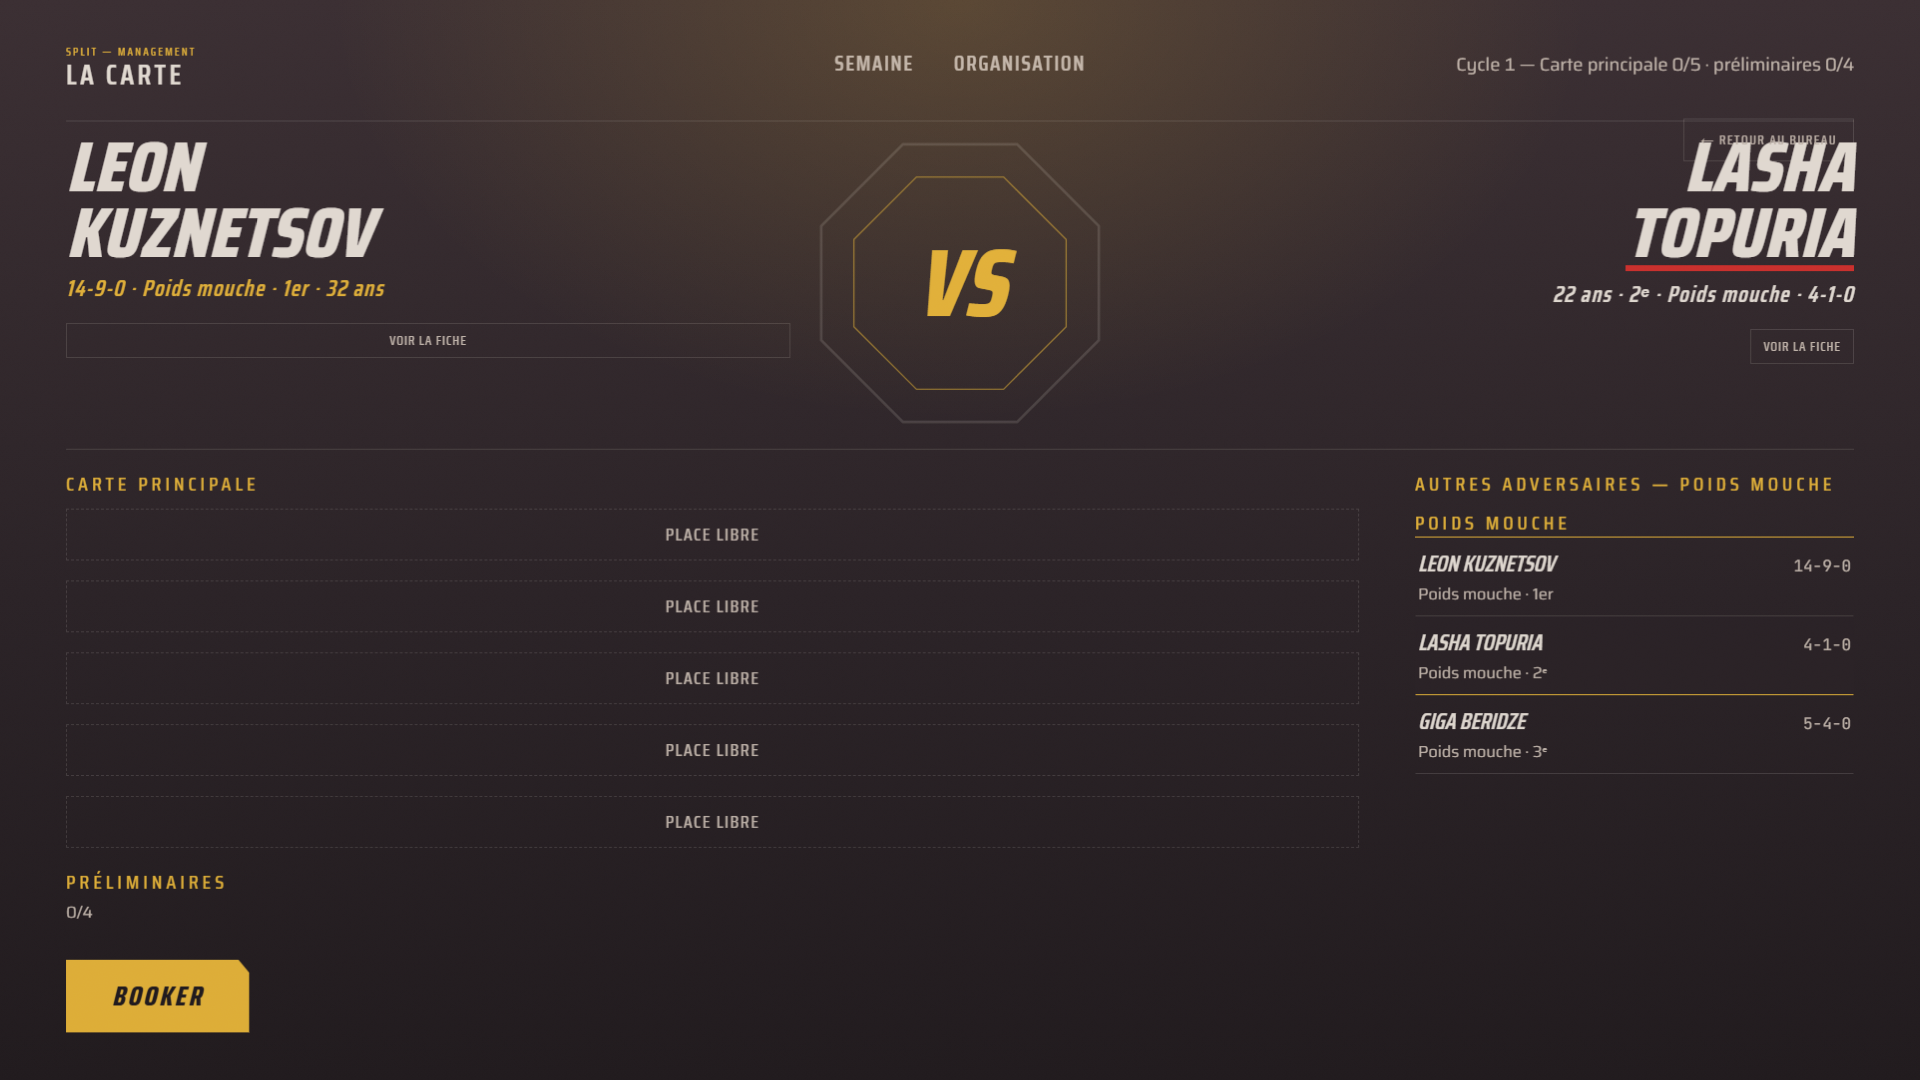
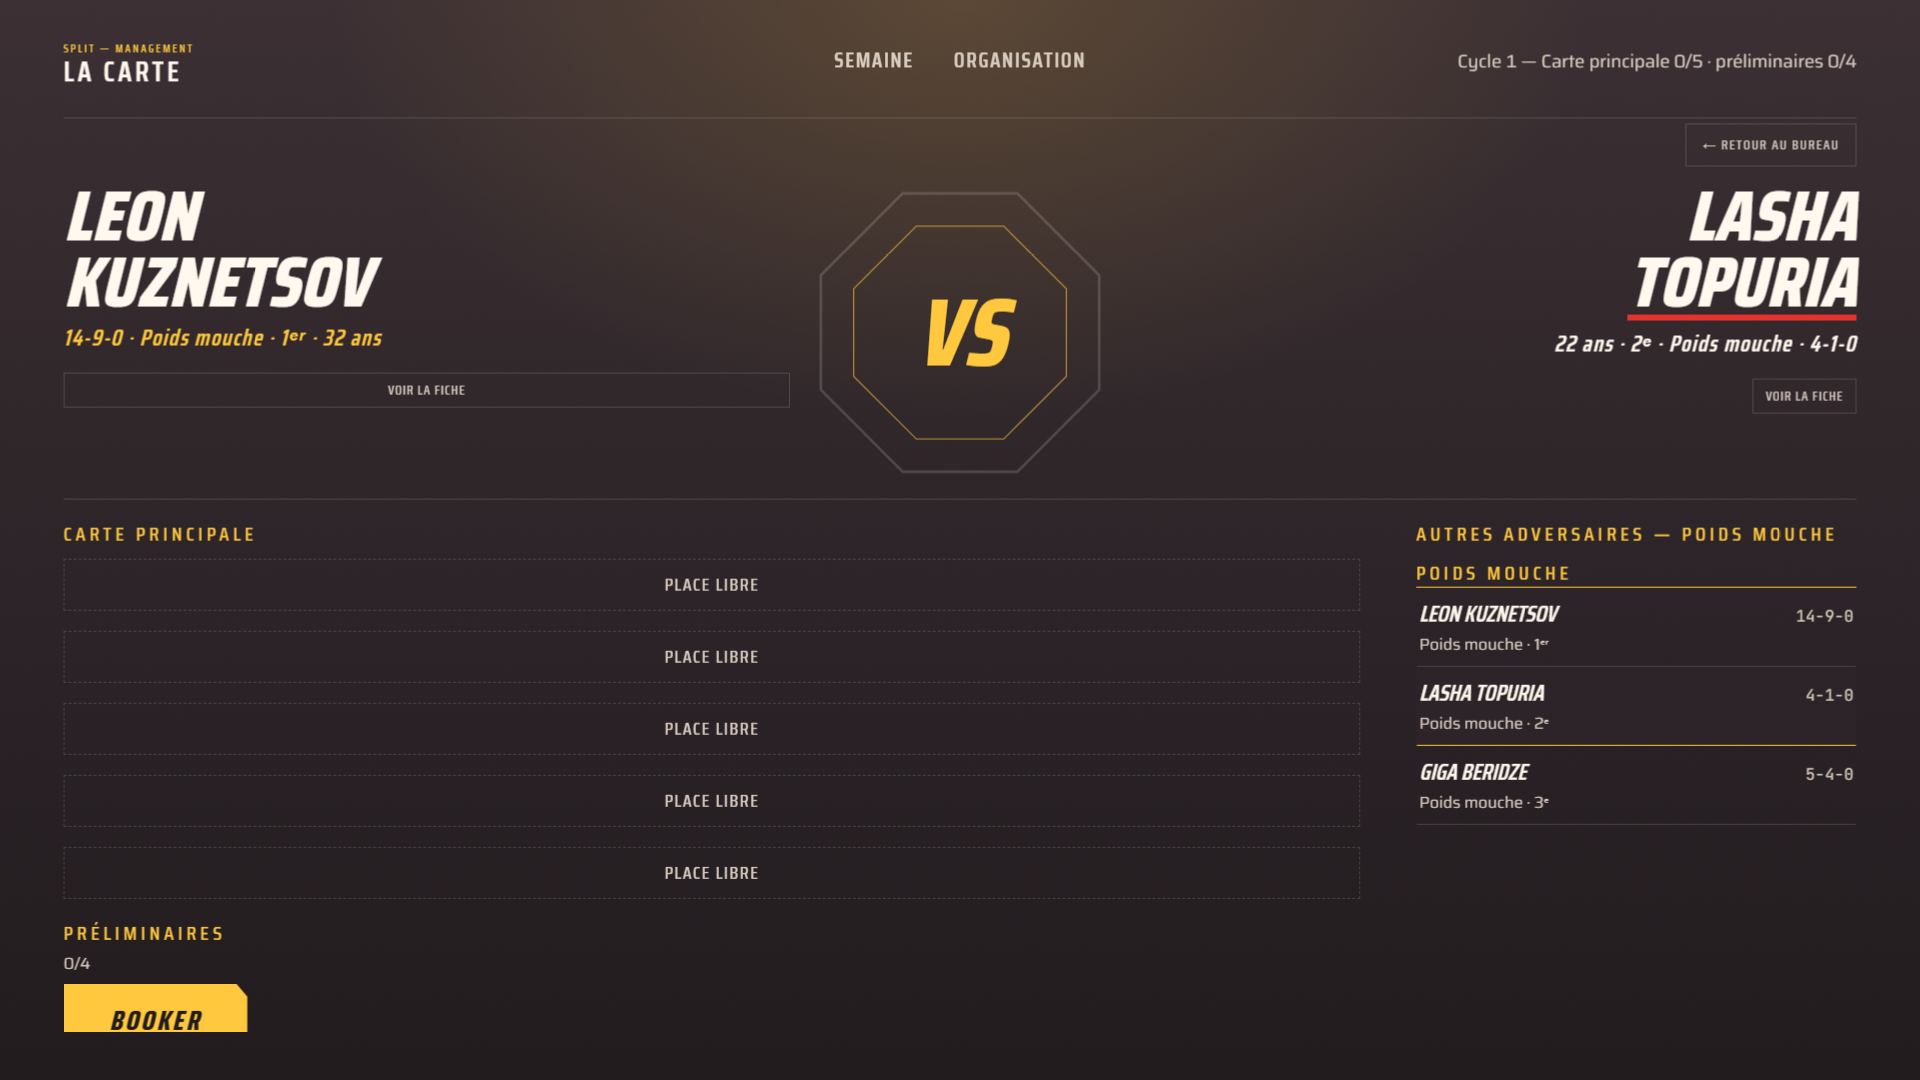
Lot 4 F2 : corriger le retour, la semaine et les rangs

diff --git a/mgmt-ecran-semaine.js b/mgmt-ecran-semaine.js
@@ -40,7 +40,7 @@ function mgmtSemaineCarte(m){
   }
   return `<section class="mgmt-week-card"><h3>Carte principale</h3>`
     +`<p>${esc(booked)} combat${booked===1?'':'s'} booké${booked===1?'':'s'} sur ${esc(size)} · ${esc(size-booked)} place${size-booked===1?'':'s'} libre${size-booked===1?'':'s'}</p>`
-    +slots+`<button class="mgmt-week-book" onclick="CL.mgmtCarte()">${booked<size?'Booker un combat':'Voir la carte principale'}</button></section>`;
+    +slots+`</section>`;
 }
 
 /* Les seules nouvelles du monde sont celles qui peuvent orienter un choix :
@@ -115,8 +115,9 @@ function mgmtSemaineMonde(m){
     +(n.id?`<button onclick="CL.mgmtFiche('${esc(n.id)}')">Voir la fiche</button>`:'')+`</article>`).join('');
 }
 
-/* Quatre rangs du classement mondial, autour d'un combat posé quand il y
-   en a un. Sinon la catégorie la plus représentée chez Split. */
+/* Quatre rangs du classement mondial autour des combattants de Split.
+   Quand un combat est posé, ses deux hommes passent en priorité ; sinon le
+   groupe Split le plus dense dans la catégorie choisie guide la fenêtre. */
 function mgmtSemaineClassement(m){
   const first=m.card.main[0], fighter=first&&mgmtFighterById(m,first.a);
   const counts=new Map();
@@ -124,15 +125,24 @@ function mgmtSemaineClassement(m){
   const div=fighter?fighter.div:[...counts].sort((a,b)=>b[1]-a[1])[0]?.[0];
   if(!div) return '';
   const ranks=mgmtDivisionRanking(m,div,'world');
-  const center=fighter?ranks.findIndex(r=>r.id===fighter.id):-1;
-  const start=center<0?0:Math.max(0,Math.min(center-1,ranks.length-4));
+  const ownIds=new Set(m.roster.filter(f=>f.div===div&&!mgmtIsRetired(f)).map(f=>f.id));
+  const bookedIds=new Set(first?[first.a,first.b]:[]);
+  let start=0, best=-1;
+  for(let s=0;s<=Math.max(0,ranks.length-4);s++){
+    const window=ranks.slice(s,s+4);
+    const booked=window.filter(r=>bookedIds.has(r.id)).length;
+    const own=window.filter(r=>ownIds.has(r.id)).length;
+    const lead=first&&window.some(r=>r.id===first.a)?1:0;
+    const score=booked*100+lead*10+own;
+    if(score>best){ best=score;start=s; }
+  }
   const rows=ranks.slice(start,start+4).map((r,i)=>{
     const own=m.roster.find(f=>f.id===r.id);
     const ext=!own&&m.exterieur.find(f=>f.id===r.id);
     const trace=ext&&mgmtExteriorTrace(ext,m.cycle);
     const name=own?own.name:trace?trace.name:r.name;
     const org=own?'Split':trace&&trace.orgs.length?trace.orgs[trace.orgs.length-1].name:'';
-    return `<div class="mgmt-week-rank"><span>${esc(start+i+1)} &nbsp;${esc(name||'')}</span><span>${esc(org)}</span></div>`;
+    return `<div class="mgmt-week-rank${own?' split':''}"><span>${esc(start+i+1)} &nbsp;${esc(name||'')}</span><span>${esc(org)}</span></div>`;
   }).join('');
   return `<section class="mgmt-week-ranking"><h3>${esc(mgmtDivisionLabel(div))}</h3>${rows}`
     +(SCREENS.mgmt_classements?`<button class="mgmt-week-link" onclick="CL.go('mgmt_classements')">Tous les classements</button>`:'')
@@ -239,7 +249,7 @@ function scr_mgmt_bureau(){
     +` — ${esc(mgmtCardLabel(m))}</div>`
     +`<div class="mgmt-cols mgmt-week-cols">`
     +`<section class="mgmt-week-pane mgmt-week-left">${mgmtSemaineCarte(m)}`
-    +`<div class="mgmt-week-talk"><h3>${selOpen&&selOpen.speaker==='leila'?'Leïla':'Échange'}</h3>${talkHtml}</div>`
+    +`<div class="mgmt-week-talk">${selOpen&&selOpen.speaker==='leila'?'':'<h3>Échange</h3>'}${talkHtml}</div>`
     +`<div class="mgmt-week-affairs"><h3>Affaires · ${open.length}</h3>${pileHtml}</div>`
     +(fileHtml?`<details class="mgmt-week-dossier"><summary>Dossier</summary>${fileHtml}</details>`:'')+`</section>`
     +`<section class="mgmt-week-pane"><h3>Le monde autour de Split</h3>${mgmtSemaineMonde(m)}`

diff --git a/tools/capture-f2-reprise.js b/tools/capture-f2-reprise.js
@@ -1,0 +1,73 @@
+"use strict";
+/* Reprise F2 : même partie neuve pour les captures avant/après ; le booking
+   choisit les deux noms les plus longs compatibles, sans changer le jeu. */
+const {chromium}=require('playwright');
+const path=require('node:path');
+const {pathToFileURL}=require('node:url');
+
+const root=path.resolve(__dirname,'..');
+const url=file=>pathToFileURL(path.join(root,file)).href;
+const phase=process.argv[2];
+if(phase!=='avant'&&phase!=='apres') throw Error('Usage : node tools/capture-f2-reprise.js avant|apres');
+
+async function main(){
+  const browser=await chromium.launch({headless:true});
+  try{
+    const context=await browser.newContext({viewport:{width:1920,height:1080},deviceScaleFactor:1});
+    const page=await context.newPage();
+    const errors=[];
+    page.on('pageerror',e=>errors.push(e.message));
+    await page.goto(url('index.html'),{waitUntil:'load'});
+    await page.evaluate(()=>{setSeed(11);CL.mgmtEnter();});
+    await page.evaluate(()=>document.fonts.ready);
+    const output=(screen)=>path.join(root,'tools','reports','lot-4-fidelite',`f2-reprise-${screen}-${phase}.png`);
+    await page.screenshot({path:output('semaine')});
+    const pair=await page.evaluate(()=>{
+      const m=G.mgmt, rows=mgmtCartRows(m);
+      const pairs=[];
+      for(const a of rows){
+        if(!mgmtSelectable(m,a,null)) continue;
+        for(const b of rows){
+          if(b.id===a.id||b.div!==a.div||!mgmtSelectable(m,b,a.id)) continue;
+          pairs.push([a,b]);
+        }
+      }
+      pairs.sort((x,y)=>Math.min(y[0].name.length,y[1].name.length)-Math.min(x[0].name.length,x[1].name.length)
+        ||y[0].name.length+y[1].name.length-x[0].name.length-x[1].name.length);
+      const [a,b]=pairs[0];
+      /* Allonger les deux noms uniquement dans cette partie de capture :
+         composants déjà générés par le jeu, aucune donnée de maquette. */
+      const others=m.roster.filter(f=>f.id!==a.id&&f.id!==b.id).sort((x,y)=>y.name.length-x.name.length);
+      for(const [f,x,y] of [[a,others[0],others[1]],[b,others[2],others[3]]]){
+        f.first+='-'+x.first;
+        f.last+='-'+y.last;
+        f.name=f.first+' '+f.last;
+      }
+      CL.mgmtCarte();CL.mgmtPick(a.id);
+      MGMT_CART.cursor=mgmtCartRows(m).filter(f=>f.div===a.div).findIndex(f=>f.id===b.id);
+      render();
+      return [a.name,b.name];
+    });
+    const intersects=(a,b)=>a.left<b.right&&a.right>b.left&&a.top<b.bottom&&a.bottom>b.top;
+    for(const width of [1920,1440,1280]){
+      await page.setViewportSize({width,height:1080});
+      const geometry=await page.evaluate(()=>{
+        const box=selector=>{
+          const r=document.querySelector(selector).getBoundingClientRect();
+          return {left:r.left,right:r.right,top:r.top,bottom:r.bottom};
+        };
+        const names=[...document.querySelectorAll('.mgmt-book-nm')];
+        return {back:box(document.querySelector('.mgmt-book-return')?'.mgmt-book-return':'.mgmt-head .btn'),left:box('.mgmt-book-a .mgmt-book-nm'),
+          right:box('.mgmt-book-b .mgmt-book-nm'),overflow:names.some(n=>n.scrollWidth>n.clientWidth+1)};
+      });
+      if(phase==='apres'&&(intersects(geometry.back,geometry.left)||intersects(geometry.back,geometry.right)||geometry.overflow)){
+        throw Error(`Chevauchement à ${width}px : ${JSON.stringify(geometry)}`);
+      }
+      console.log(width,geometry);
+      if(width===1920) await page.screenshot({path:output('booker')});
+    }
+    if(errors.length) throw Error(errors.join('\n'));
+    console.log(phase,pair,output('semaine'),output('booker'));
+  }finally{await browser.close();}
+}
+main().catch(e=>{console.error(e);process.exitCode=1;});

diff --git a/index.html b/index.html
@@ -692,6 +692,7 @@ button{font-family:'Oswald',sans-serif;cursor:pointer;border:0;border-radius:0;f
 .mgmt-week-rank{display:flex;justify-content:space-between;gap:12px;padding:8px 0;border-bottom:1px solid var(--mgmt-edge);font-size:18px}
 .mgmt-week-rank span:first-child{min-width:0;overflow-wrap:anywhere}
 .mgmt-week-rank span:last-child{flex:0 1 45%;min-width:0;text-align:right;overflow-wrap:anywhere;color:var(--mgmt-secondary)}
+.mgmt-week-rank.split span:last-child{color:var(--mgmt-yellow);font-weight:700}
 .mgmt-week-ranking,.mgmt-week-organisation{display:flex;flex-direction:column;gap:10px}
 .mgmt-week-organisation{margin-top:26px}
 .mgmt-week-organisation p{font-size:18px;line-height:1.6;margin:0}
@@ -705,6 +706,11 @@ button{font-family:'Oswald',sans-serif;cursor:pointer;border:0;border-radius:0;f
 .mgmt-book-sub{font-size:16px}
 .mgmt-book-list .opp-rec,.mgmt-book-list .eyebrow{font-size:16px}
 .mgmt-book-cols>.mgmt-book-pane>.eyebrow{font-size:20px;letter-spacing:.2em;color:var(--mgmt-yellow)}
+/* ==== [ANCRE: MGMT_LOT4_F2_REPRISE_RETOUR] — Reprise F2 : retour dans
+   le flux sous l'en-tête, jamais sur les noms du face-à-face, même longs. ==== */
+.mgmt-book-actions{flex:0 0 52px;display:flex;justify-content:flex-end;align-items:center}
+.mgmt-book-actions .mgmt-book-return{width:auto;margin:0;padding:10px 16px;position:static;color:var(--mgmt-secondary);background:transparent;border:1px solid var(--mgmt-edge)}
+/* ==== [FIN ANCRE] ==== */
 /* Maquette 03 : en-tête commun puis nom de 116px, colonne gauche 520px,
    trajectoire à droite seulement si le monde fournit une trace. */
 .mgmt-fiche{padding:40px 64px 48px}
@@ -883,8 +889,8 @@ button{font-family:'Oswald',sans-serif;cursor:pointer;border:0;border-radius:0;f
 <!-- ==== [ANCRE: MGMT_LOT4_T1_ECRANS] — Lot 4 T1 : ui-08 a posé CL/SCREENS,
      ui-11 a posé keysRegister ; les cinq écrans sont déclarés avant que le
      contrôleur commun les enregistre et étende CL. ==== -->
-<script src="mgmt-ecran-semaine.js?v=lot4f2final"></script>
-<script src="mgmt-ecran-carte.js?v=lot4f2booker"></script>
+<script src="mgmt-ecran-semaine.js?v=lot4f2reprise"></script>
+<script src="mgmt-ecran-carte.js?v=lot4f2reprise"></script>
 <script src="mgmt-ecran-soiree.js?v=mgmt4t1"></script>
 <script src="mgmt-ecran-lendemain.js?v=mgmt4t1"></script>
 <script src="mgmt-ecran-fiche.js?v=lot4f2final"></script>

diff --git a/tests/mgmtBureau.test.js b/tests/mgmtBureau.test.js
@@ -989,6 +989,34 @@ test('MGMT lot 4 T2 — la semaine mène au booking, compose explique, monde fac
   assert.ok(!win.document.querySelector('.mgmt-week-news img'));
 });
 
+test('MGMT F2 reprise — une seule Leïla, places libres seules et quatre rangs autour de Split', () => {
+  const win=newGameWindow();
+  enterMgmt(win,58);
+  const app=win.document.getElementById('app');
+  assert.equal(app.querySelectorAll('.mgmt-week-card .mgmt-week-book').length,0,'pas de second bouton sous les places libres');
+  assert.equal(app.querySelectorAll('.mgmt-week-free').length,5,'les places restent directement cliquables');
+  const initial=[...app.querySelectorAll('.mgmt-week-rank')];
+  assert.equal(initial.length,4);
+  assert.ok(initial.some(row=>row.classList.contains('split')),'la fenêtre de quatre rangs montre Split même sans carte');
+  win.eval(`(function(){
+    const m=G.mgmt;
+    const first=m.roster.find(f=>!mgmtIsRetired(f)&&mgmtDivisionRank(m,f,'world')>8
+      &&m.roster.some(x=>x.id!==f.id&&x.div===f.div&&!mgmtIsRetired(x)));
+    const second=m.roster.find(f=>f.id!==first.id&&f.div===first.div&&!mgmtIsRetired(f));
+    m.card.main=[{a:first.id,b:second.id,cycle:m.cycle,slot:'main'}];
+    window.testBookName=first.name;
+    const leila=m.pile.find(a=>a.status==='open'&&a.speaker==='leila');
+    if(leila) m.open=leila.id;
+    render();
+  })()`);
+  assert.equal(app.querySelectorAll('.mgmt-week-rank').length,4);
+  assert.ok([...app.querySelectorAll('.mgmt-week-rank.split')].some(row=>row.textContent.includes(win.testBookName)),
+    'un combat posé centre la fenêtre autour de Split');
+  if(win.document.querySelector('.mgmt-week-talk .mgmt-spk')){
+    assert.equal(app.querySelectorAll('.mgmt-week-talk h3').length,0,'le titre Leïla ne répète pas le nom de la personne');
+  }
+});
+
 test('MGMT lot 4 T2 reprise — versions de chargement cohérentes et monde sans répétition', () => {
   const index=fs.readFileSync(path.join(__dirname,'..','index.html'),'utf8');
   for(const file of ['mgmt-data','mgmt-bureau','mgmt-save','mgmt-ecran-semaine']){

diff --git a/mgmt-ecran-carte.js b/mgmt-ecran-carte.js
@@ -49,9 +49,9 @@ function mgmtDivisionLabel(div){
 }
 /* ==== [FIN ANCRE] ==== */
 
-/** Rang accordé à la catégorie : 1er mondial / 1re mondiale. */
+/** Rang accordé à la catégorie : 1ᵉʳ mondial / 1ʳᵉ mondiale / 2ᵉ. */
 function mgmtRankLabel(rank,div){
-  if(rank===1) return div&&divById(typeof div==='string'?div:div.div||div.id)?.gender==='F'?'1re':'1er';
+  if(rank===1) return div&&divById(typeof div==='string'?div:div.div||div.id)?.gender==='F'?'1ʳᵉ':'1ᵉʳ';
   return Number.isSafeInteger(rank)&&rank>1?`${rank}ᵉ`:'';
 }
 
@@ -228,11 +228,11 @@ function scr_mgmt_carte(){
     :(full?esc(MGMT_CART_LABELS.complete):(pickF?'':esc(MGMT_CART_LABELS.hint)));
   const hintHtml=hint?`<div class="mgmt-book-sub" style="margin:4px 0 8px">${hint}</div>`:'';
 
-  return `<div class="scr mgmt-wrap"><div class="mgmt-head bar">`
+  return `<div class="scr mgmt-wrap mgmt-book"><div class="mgmt-head bar">`
     +`<div><div class="eyebrow gold">Split — Management</div>`
-    +`<h2 class="disp">La carte</h2></div>`
-    +`<button class="btn ghost" style="width:auto;padding:10px 16px" onclick="CL.mgmtCarteLeave()">${esc(MGMT_CART_LABELS.leave)}</button></div>`
+    +`<h2 class="disp">La carte</h2></div></div>`
     +`<div class="mono mgmt-cycle">Cycle ${esc(m.cycle)} — ${esc(mgmtCardLabel(m))}</div>`
+    +`<div class="mgmt-book-actions"><button class="btn ghost mgmt-book-return" onclick="CL.mgmtCarteLeave()">${esc(MGMT_CART_LABELS.leave)}</button></div>`
     +versaHtml
     +`<div class="mgmt-book-cols">`
     +`<section class="mgmt-book-pane mgmt-book-card"><div class="eyebrow">${esc(MGMT_CART_LABELS.card)}</div>${cardHtml}`

diff --git a/tools/capture-f2.js b/tools/capture-f2.js
@@ -24,13 +24,13 @@ async function main(){
     const ctx=await browser.newContext({viewport:{width:1920,height:1080},deviceScaleFactor:1});
     const game=await ctx.newPage(), errors=[];
     game.on('pageerror',e=>errors.push(e.message));
-    await game.goto(url('index.html'),{waitUntil:'load'});
+    await game.goto(url('index.html'),{waitUntil:'domcontentloaded',timeout:60000});
     await game.evaluate(()=>{setSeed(11);CL.mgmtEnter();});
     await game.evaluate(entry[1]);
     await game.evaluate(()=>document.fonts.ready);
     const shot=await game.screenshot();
     const sample=await ctx.newPage();
-    await sample.goto(url('maquettes/'+entry[0]),{waitUntil:'load'});
+    await sample.goto(url('maquettes/'+entry[0]),{waitUntil:'domcontentloaded',timeout:60000});
     await sample.addStyleTag({content:`@font-face{font-family:'Saira';src:url('${url('fonts/saira-latin.woff2')}');font-weight:300 600}@font-face{font-family:'Saira Condensed';src:url('${url('fonts/condensed-700-latin.woff2')}');font-weight:700}@font-face{font-family:'Saira Condensed';src:url('${url('fonts/condensed-800-latin.woff2')}');font-weight:800}@font-face{font-family:'Saira Condensed';src:url('${url('fonts/condensed-600-latin.woff2')}');font-weight:600}`});
     await sample.evaluate(()=>document.fonts.ready);
     const reference=await sample.screenshot();

diff --git a/tests/mgmtCategoriesFeminines.test.js b/tests/mgmtCategoriesFeminines.test.js
@@ -102,8 +102,9 @@ test('Composition de la carte — groupes, en-tête de liste et fiches au libell
   win.eval(`CL.mgmtPick('f1'); render();`);
   html = win.document.getElementById('app').innerHTML;
   assert.ok(html.includes('Autres adversaires — Poids mouche féminin'), 'l’en-tête de la maquette 04 dérive le féminin (F2)');
-  assert.equal(win.eval(`mgmtRankLabel(1,'F-fly')`),'1re','première mondiale : accord féminin (F2)');
-  assert.equal(win.eval(`mgmtRankLabel(1,'H-light')`),'1er','premier mondial : accord masculin (F2)');
+  assert.equal(win.eval(`mgmtRankLabel(1,'F-fly')`),'1ʳᵉ','première mondiale : même exposant que 2ᵉ');
+  assert.equal(win.eval(`mgmtRankLabel(1,'H-light')`),'1ᵉʳ','premier mondial : même exposant que 2ᵉ');
+  assert.equal(win.eval(`mgmtRankLabel(2,'H-light')`),'2ᵉ');
   /* La fiche du face-à-face porte bilan, catégorie, rang, âge. */
   win.eval(`CL.mgmtPick('f2'); render();`);
   assert.equal(win.eval(`G.mgmt.card.main.length`), 1, 'le combat se pose comme avant');
